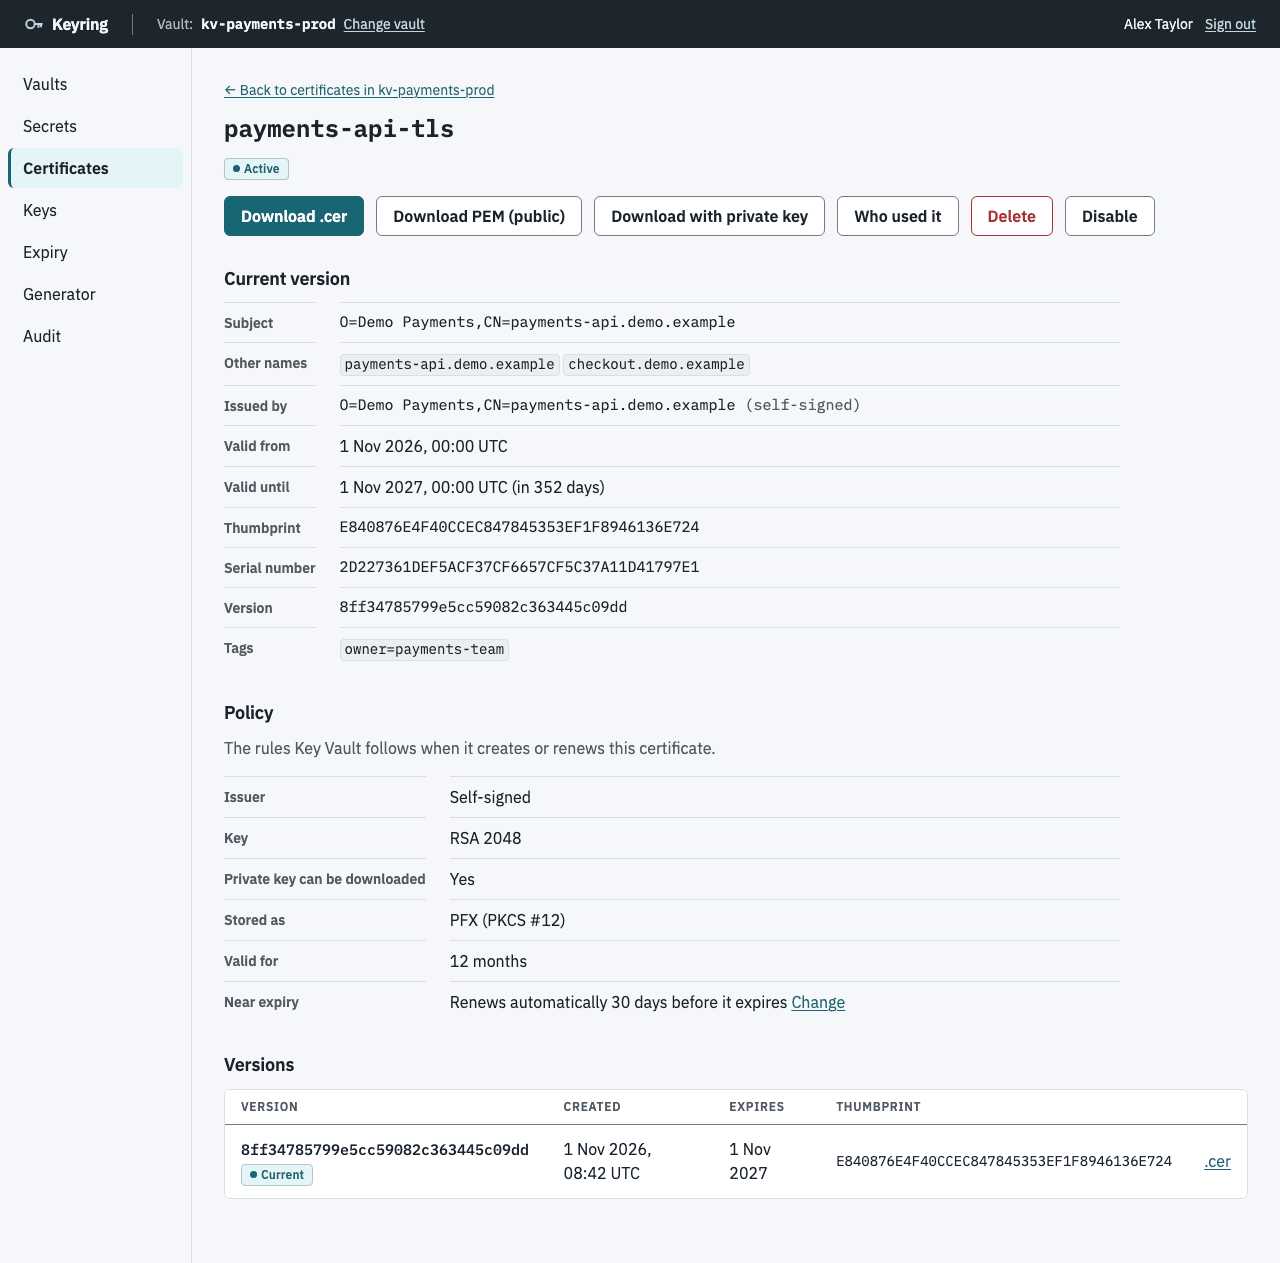
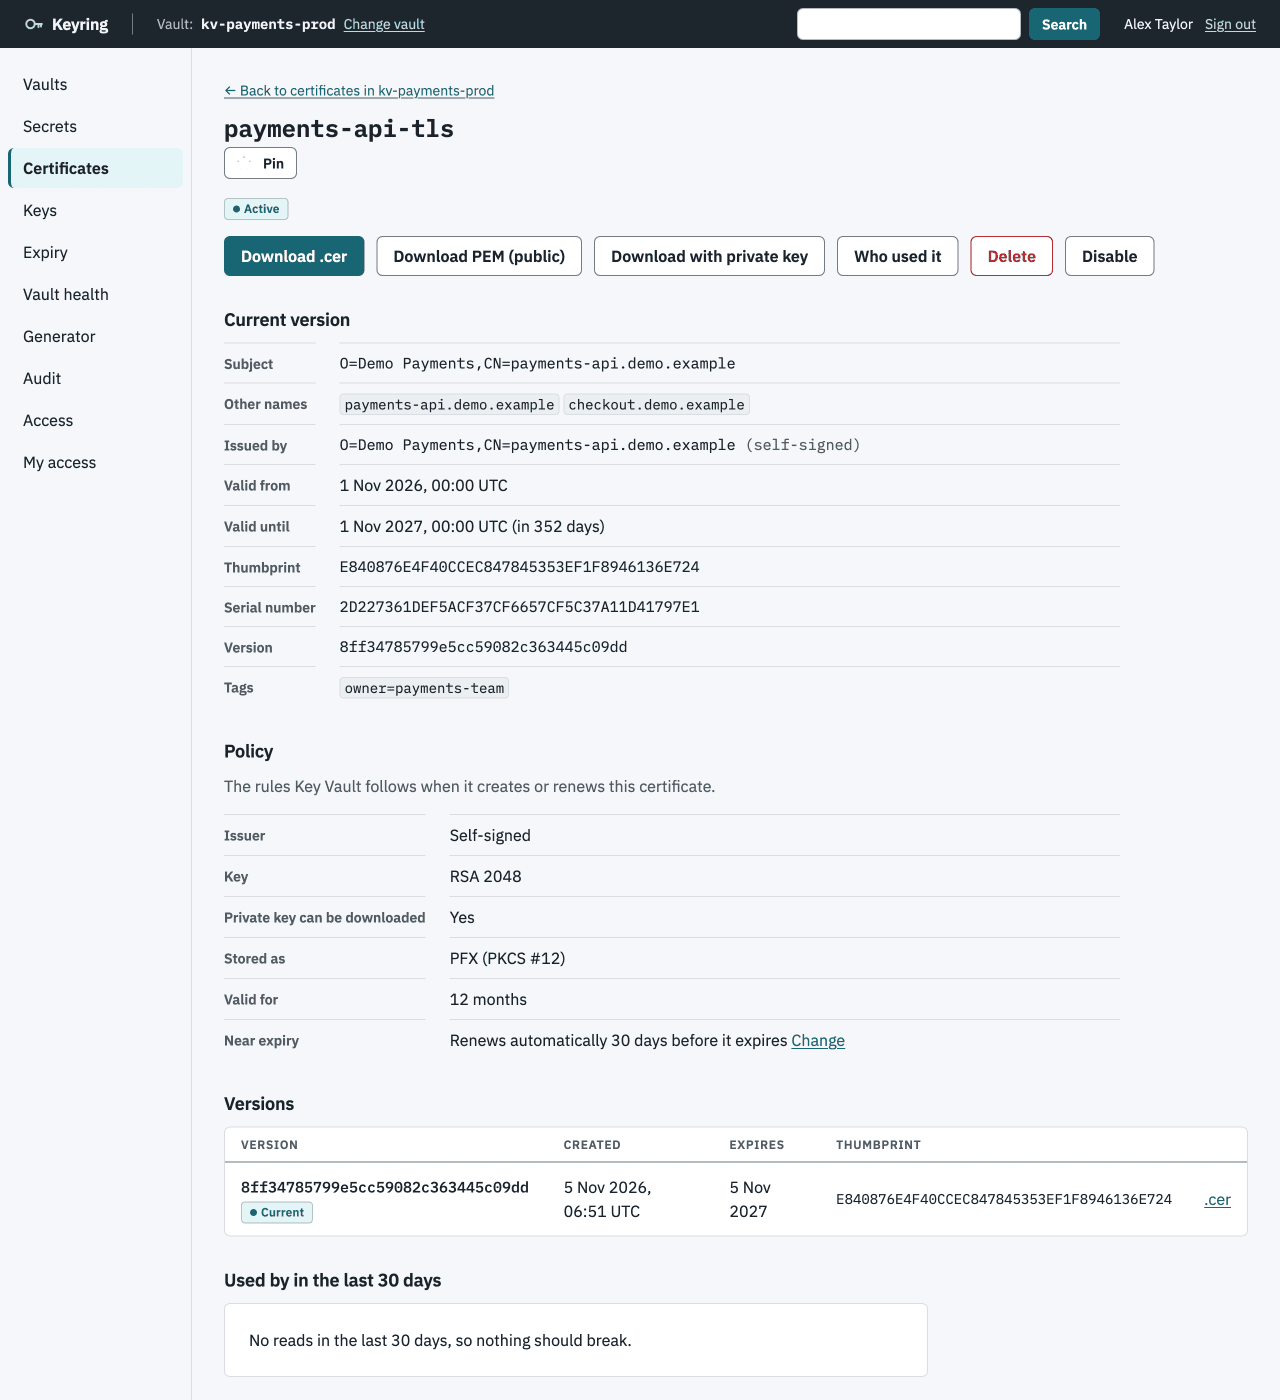
docs: refresh app screenshots and README gallery

Changed region(s): [[0.0, 0.0, 1.0, 0.9572], [0.6562, 0.8029, 0.9062, 0.9264], [0.8438, 0.1544, 0.9062, 0.1853]]

diff --git a/README.md b/README.md
@@ -14,7 +14,13 @@ Keyring is written in Rust (Axum and Askama) and ships as a single Docker image.
 
 ## Screenshots
 
-These show Keyring running against the mock Azure services from the test suite. Every vault, name and value in them is made up.
+These show the current Keyring app running against the mock Azure services from the test suite. Screenshots refreshed on 17 November 2026; every vault, name and value is made up.
+
+### Home
+
+Start from the home page, then open a vault or move straight to secrets, certificates, keys and reports.
+
+<img src="docs/images/screenshots/home.png" alt="Keyring home page with the selected vault, quick actions and links to secrets, certificates, keys and reports" width="800">
 
 ### Secrets
 
@@ -26,14 +32,14 @@ A secret's details. The value stays hidden until you choose Show value.
 
 <img src="docs/images/screenshots/secret-detail.png" alt="Details of the secret db-connection-string: an Expires within 30 days badge, buttons to set a new value, edit, view versions, see who used it, delete or disable, a hidden value panel and the current version's dates and tags" width="800">
 
-The value after Show value and Copy. Keyring hides it again after 30 seconds and tries to clear the clipboard. A note says the read is recorded.
+The value after Show value. Keyring hides it again after 30 seconds and tries to clear the clipboard. A note says the read is recorded.
 
-<img src="docs/images/screenshots/secret-reveal.png" alt="The value of db-connection-string in a bordered monospace box with Copy, Show for longer and Hide, a Copied label saying the clipboard will be cleared in 30 seconds, a Hiding in 30 seconds countdown, and a note that the read is recorded" width="800">
+<img src="docs/images/screenshots/secret-reveal.png" alt="The value of db-connection-string in a bordered monospace box with Copy, Show for longer and Hide, a Hiding in 30 seconds countdown, and a note that the read is recorded" width="800">
 
 <details>
 <summary>Creating a secret, with a mistake caught</summary>
 
-The form keeps what you typed and says what to fix, next to the field and in a summary at the top.
+The form keeps non-secret fields and says what to fix, next to the field and in a summary at the top. The secret value must be entered again.
 
 <img src="docs/images/screenshots/secret-form-error.png" alt="The Create a secret form with an error summary at the top and a message under Expires saying the expiry date has already passed" width="800">
 </details>
@@ -87,6 +93,12 @@ Everything that expires, across every vault you can see, grouped by how soon. A 
 Beside it, **By time since the value changed** (`/expiry/age`) groups the same items by when their current version was made, oldest first, so a secret with no expiry that hasn't changed in three years still shows up. Secrets and keys that belong to a certificate change with it, so only the certificate is listed.
 
 <img src="docs/images/screenshots/expiry.png" alt="Expiry page with a count tile for each of expired, next 7 days, 8 to 30 days, 31 to 90 days, more than 90 days and no expiry set, then a ruled table per group of secrets, certificates and keys from three vaults" width="800">
+
+<img src="docs/images/screenshots/credential-age.png" alt="Credential-age report grouping secrets, keys and certificates by when their current version was created" width="800">
+
+Vault health lists configuration warnings and unavailable checks across the vaults you can see.
+
+<img src="docs/images/screenshots/vault-health.png" alt="Vault health report with configuration checks, warnings and links to each vault" width="800">
 
 Who read or changed what in a vault, from its diagnostic logs, in plain words.
 
